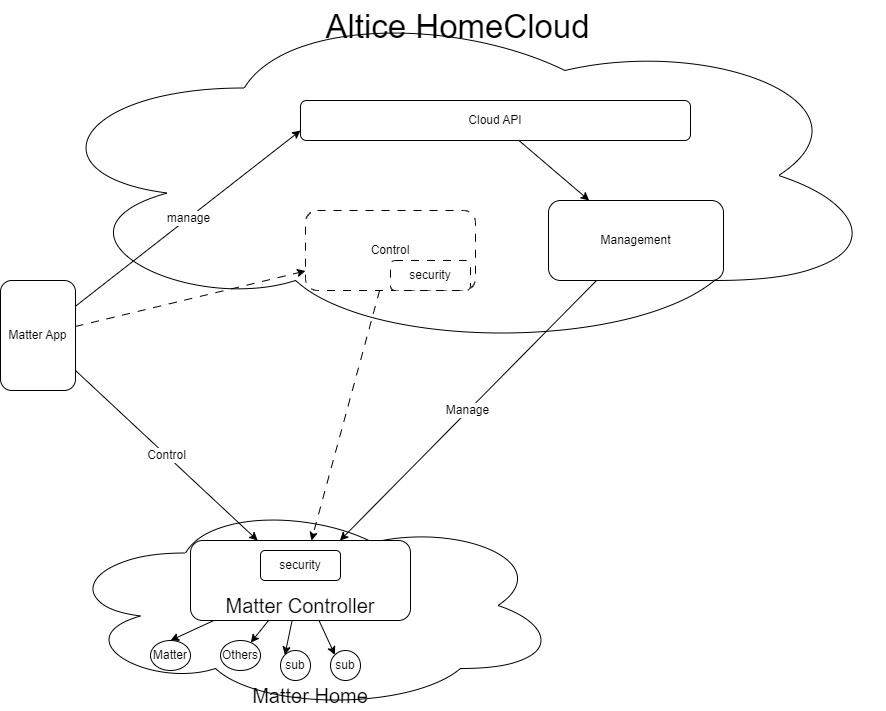
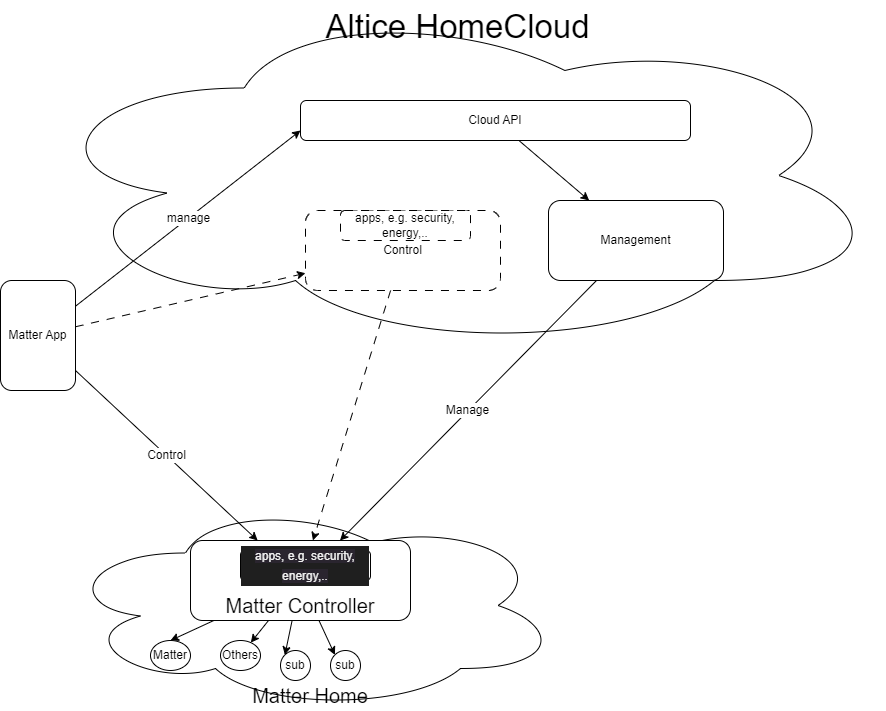
arch update

Changed region(s): [[0.2438, 0.7426, 0.4266, 0.8354], [0.3962, 0.2785, 0.5181, 0.4023], [0.3352, 0.3713, 0.3657, 0.4023]]

diff --git a/arch_matter.md b/arch_matter.md
@@ -10,7 +10,45 @@
 
 ### Matter Controller functionalities
 
+- Matter devices management
+- Matter OTA
+- Matter bridges
+- ...
+
 ### Matter App functionalities
+
+- Commissioning
+- 
+
+### Management functionalities
+
+- Customer / Home provisioning
+- Services provisioning
+- Customer / Home profile incl settings
+- CI/CD
+- Firmware management
+- Analytics
+- ...
+
+### Control functionalities
+
+- Automation
+- Devices control
+- Devices status monitoring
+- Devices events handler
+- Notifications eg push notification, email, SMS, ...
+- Non-Matter integrations e.g. Tuya
+- ...
+
+
+### Security functionalities
+
+- Zone management
+- arm delays settings
+- arm / disarm
+- Alarms
+- ...
+
 
 
 ## Matter Arch with HomeBot (mid step)
